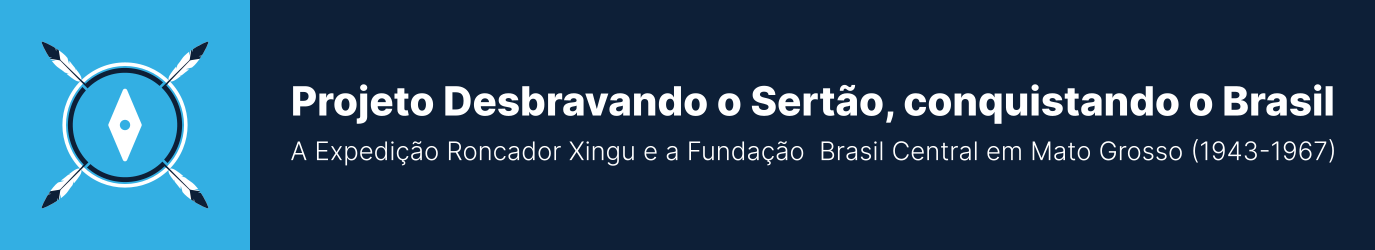
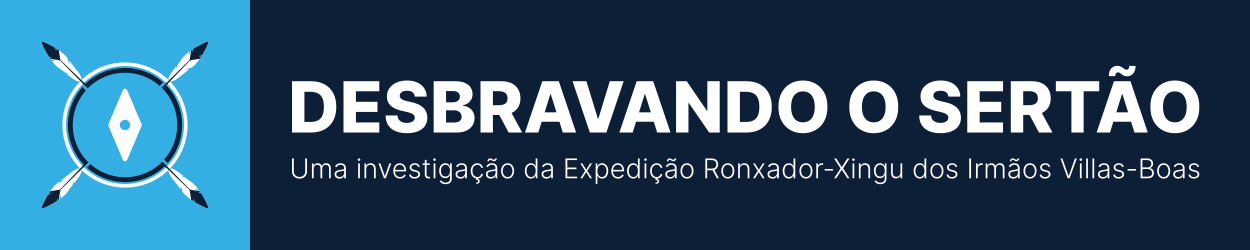
Atualização do ReadMe

Changed region(s): [[0.0312, 0.0, 0.9672, 1.0]]

diff --git a/README.md b/README.md
@@ -4,7 +4,7 @@
 ## 📑 Sobre o site Projeto Roncador-Xingu
 
 <p align="justify">
-O site do Projeto Roncador-Xingu é um dos produtos resultantes da pesquisa "Desbravando o sertão, conquistando o Brasil: a Expedição Roncador Xingu e a Fundação Brasil Central em Mato Grosso (1943-1967)", uma investigação acerca da forma como se procedeu a Expedição Roncador-Xingu e a atuação da Fundação Brasil Central na Expedição dos Irmãos Villas-Boas, realizada no leste de Mato Grosso, na região do Vale do Araguaia. Desenvolvida sob a supervisão do Prof. Ms. Luiz Gabriel de Souza Nogueira, a pesquisa também contou com a participação das estudantes Aluna 01, Aluna 02 e Aluno 03 que, até o final do ano de 2022, integravam a <a href="https://www.instagram.com/escolatiradentesab/" title="Escola Estadual Militar Tiradentes 3° Sgt PM Justino Pinheiro dos Santos" target="_blank" rel="noreferrer noopener">Escola Estadual Militar Tiradentes 3° Sgt PM Justino Pinheiro dos Santos</a>, localizada no município de Água Boa-MT.</p>
+O site do Desbravando o Sertão é um dos produtos resultantes da pesquisa "Desbravando o sertão, conquistando o Brasil: a Expedição Roncador Xingu e a Fundação Brasil Central em Mato Grosso (1943-1967)", uma investigação acerca da forma como se procedeu a Expedição Roncador-Xingu e a atuação da Fundação Brasil Central na Expedição dos Irmãos Villas-Boas, realizada no leste de Mato Grosso, na região do Vale do Araguaia. Desenvolvida sob a supervisão do Prof. Ms. Luiz Gabriel de Souza Nogueira, a pesquisa também contou com a participação das estudantes Aluna 01, Aluna 02 e Aluno 03 que, até o final do ano de 2022, integravam a <a href="https://www.instagram.com/escolatiradentesab/" title="Escola Estadual Militar Tiradentes 3° Sgt PM Justino Pinheiro dos Santos" target="_blank" rel="noreferrer noopener">Escola Estadual Militar Tiradentes 3° Sgt PM Justino Pinheiro dos Santos</a>, localizada no município de Água Boa-MT.</p>
 
 <p align="justify">
 Ainda sobre a realização do projeto, cabe citar a fundamental importância do aporte financeiro concedido pela <a href="https://www.fapemat.mt.gov.br/" title="Fundação de Amparo à Pesquisa do Estado de Mato Grosso - Fapemat" target="_blank" rel="noreferrer noopener"> Fundação de Amparo à Pesquisa do Estado de Mato Grosso (Fapemat)</a>.</p>
